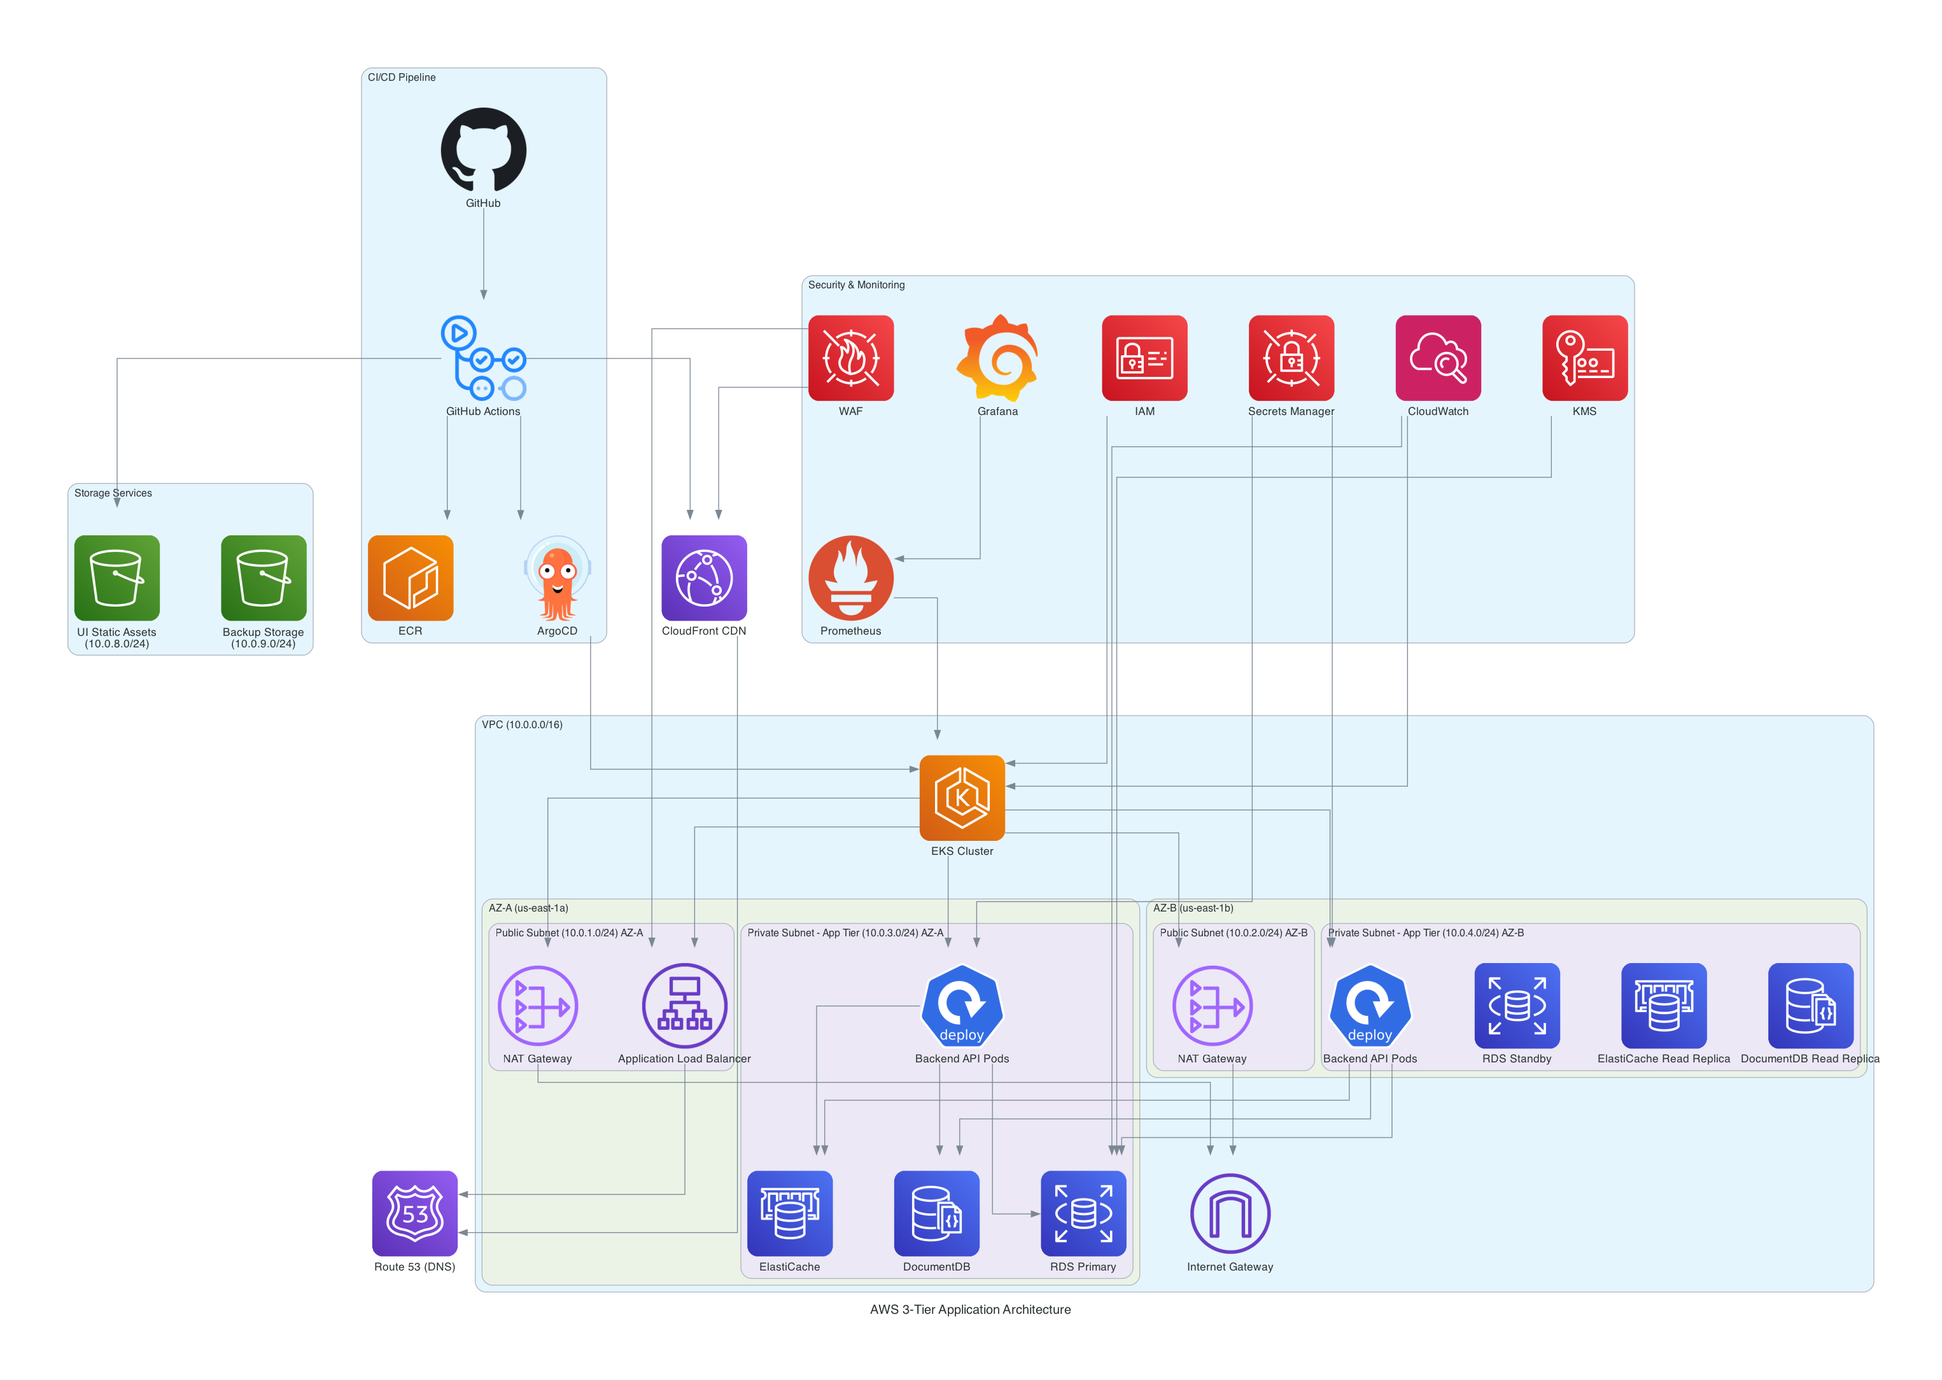
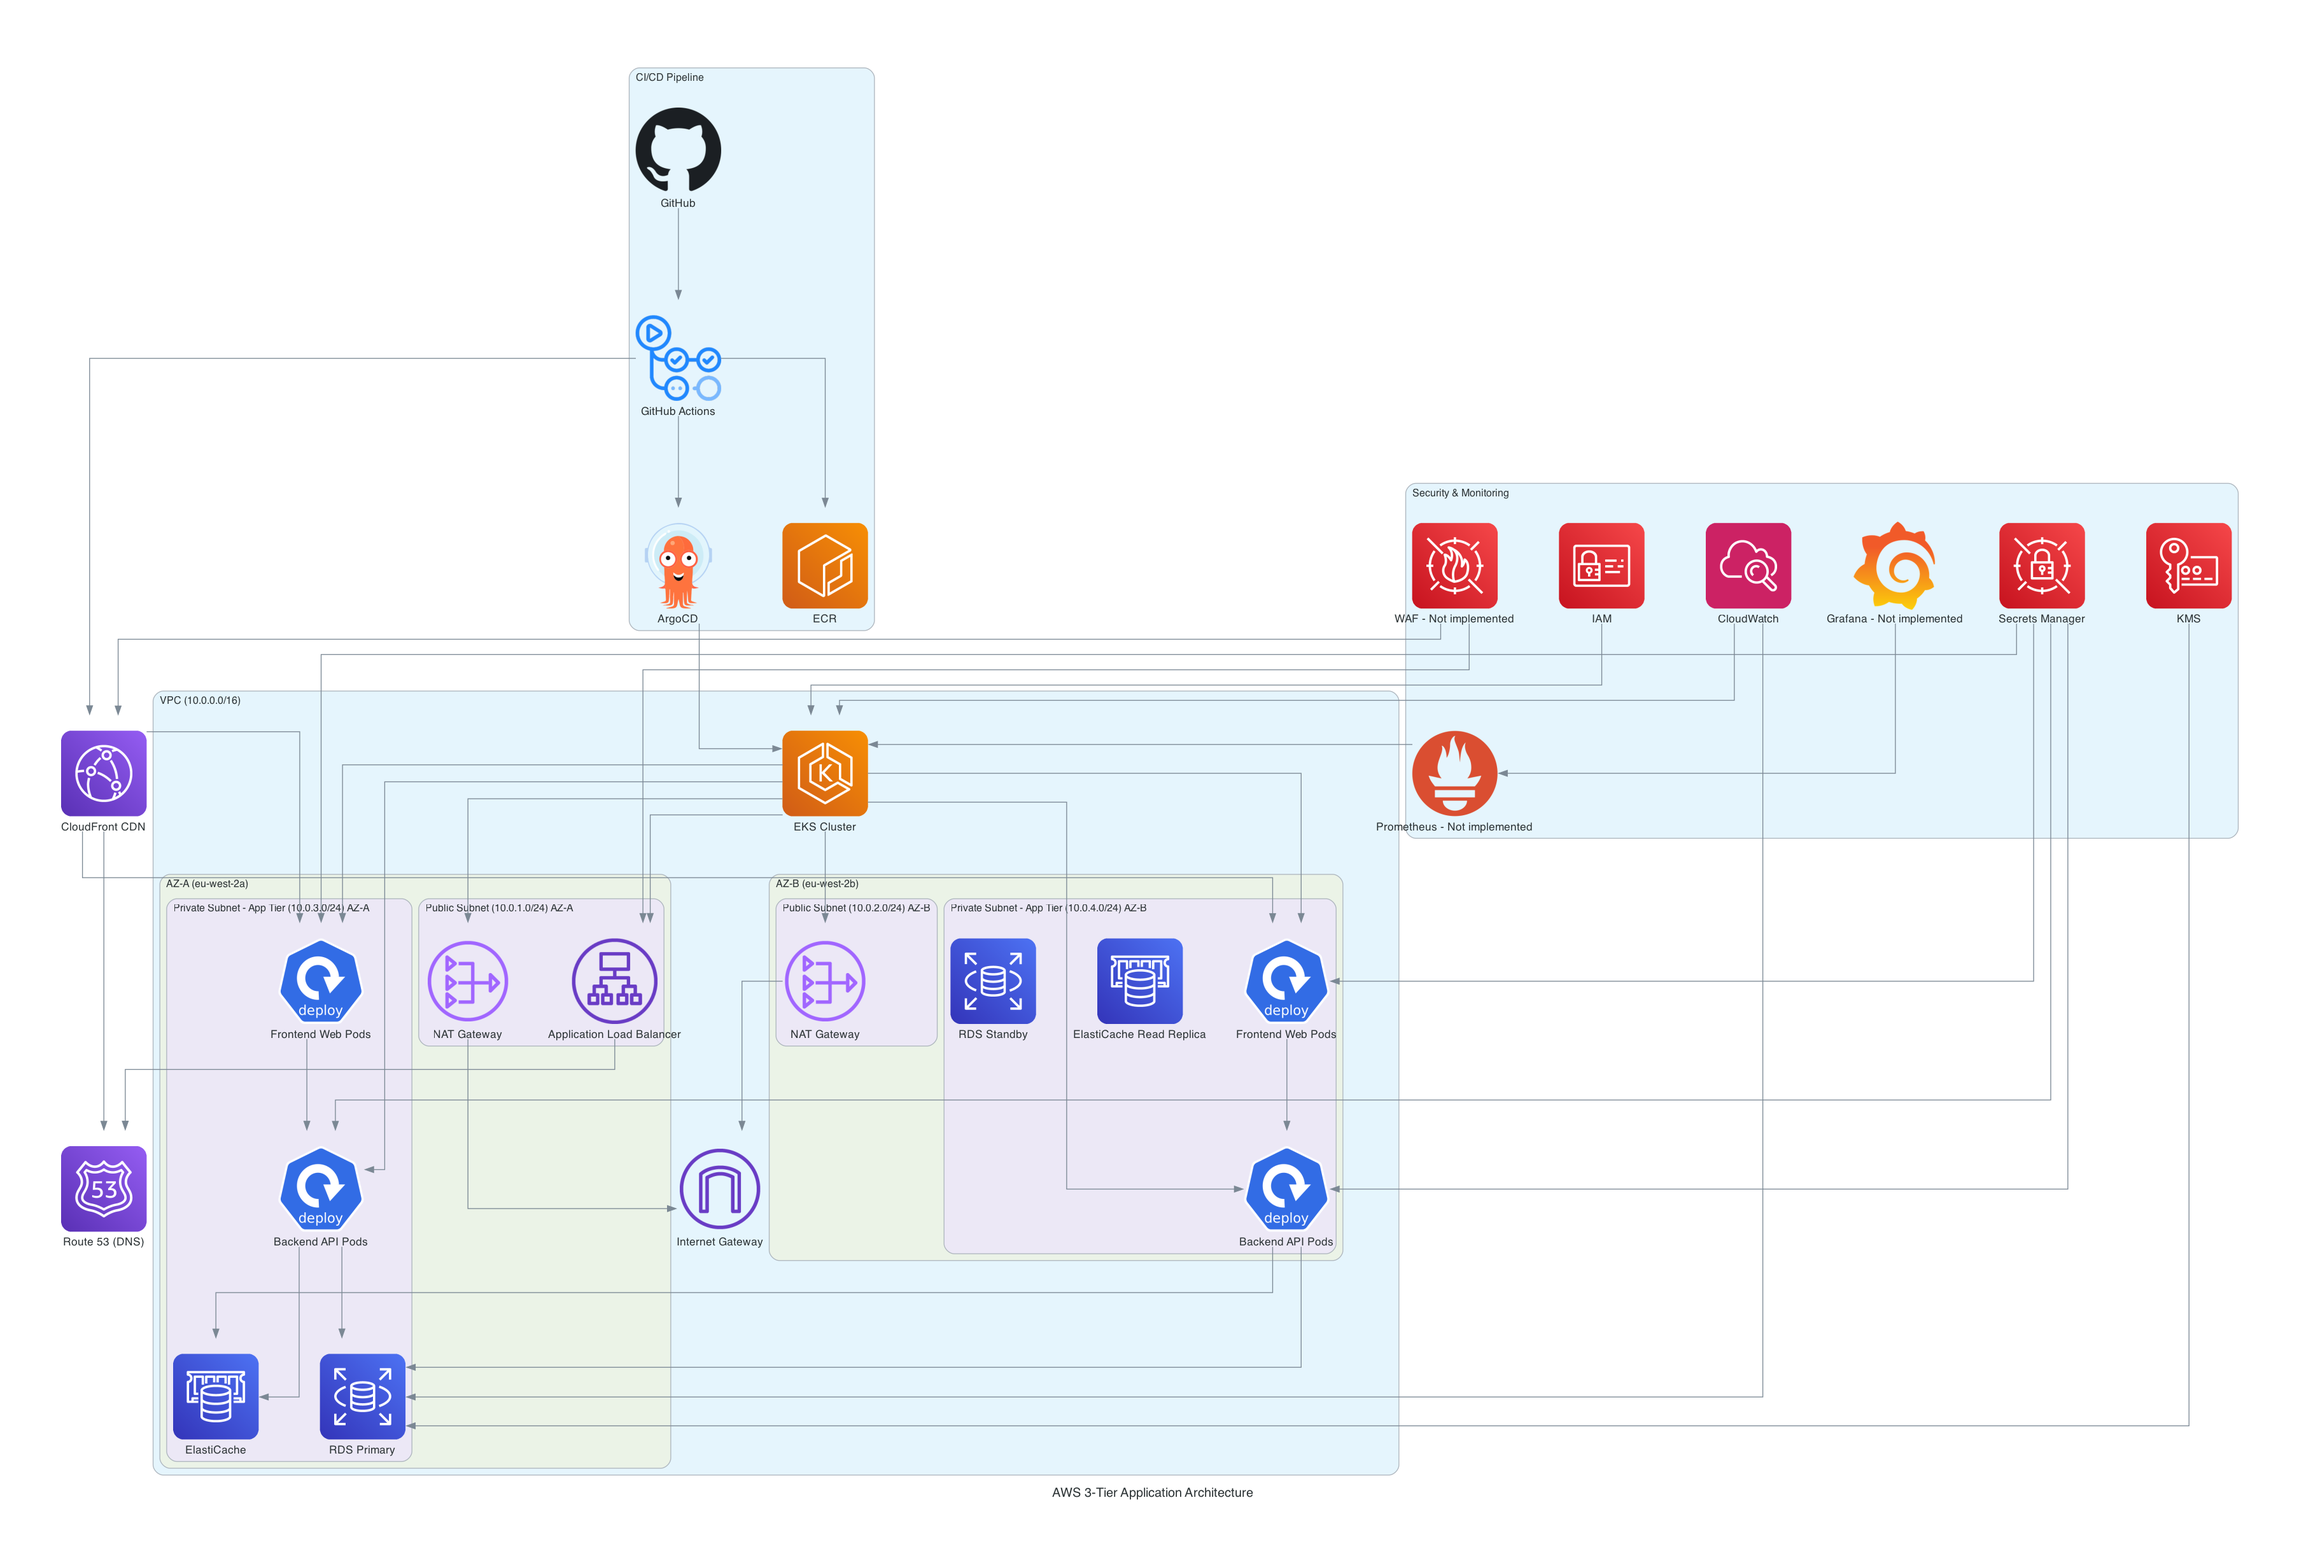
Add Fluent Bit installation script and AWS architecture diagram

diff --git a/src/scripts/arch.py b/src/scripts/arch.py
@@ -1,0 +1,108 @@
+from diagrams import Diagram, Cluster, Edge
+from diagrams.aws.compute import EKS, EC2, ECR
+from diagrams.aws.database import RDS, ElastiCache, DocumentDB
+from diagrams.aws.network import VPC, ALB, CloudFront, Route53, VPCRouter, InternetGateway, NATGateway
+from diagrams.aws.security import WAF, IAM, KMS, SecretsManager
+from diagrams.aws.storage import S3
+from diagrams.aws.devtools import Codebuild, Codecommit, Codepipeline
+from diagrams.aws.management import Cloudwatch
+from diagrams.k8s.compute import Deployment, Pod
+from diagrams.onprem.monitoring import Grafana, Prometheus
+from diagrams.onprem.gitops import ArgoCD
+from diagrams.onprem.ci import GithubActions
+from diagrams.onprem.vcs import Github
+
+with Diagram(
+    "AWS 3-Tier Application Architecture", 
+    show=False, 
+    direction="TB",
+    graph_attr={
+        "pad": "1.0",  # Padding around the diagram
+        "nodesep": "1.0",  # Separation between nodes
+        "ranksep": "1.5"   # Separation between ranks (horizontal/vertical clusters)
+    }):
+    # CDN Layer
+    cloudfront = CloudFront("CloudFront CDN")
+    
+    dns = Route53("Route 53 (DNS)")
+
+    # CI/CD Pipeline Cluster
+    with Cluster("CI/CD Pipeline"):
+        github = Github("GitHub")
+        github_actions = GithubActions("GitHub Actions")
+        ecr = ECR("ECR")
+        argocd = ArgoCD("ArgoCD")
+
+    # Security & Monitoring Cluster
+    with Cluster("Security & Monitoring"):
+        secrets = SecretsManager("Secrets Manager")
+        iam = IAM("IAM")
+        kms = KMS("KMS")
+        cloudwatch = Cloudwatch("CloudWatch")
+        prometheus = Prometheus("Prometheus - Not implemented")
+        grafana = Grafana("Grafana - Not implemented")
+        waf = WAF("WAF - Not implemented")
+    
+    # Main VPC Cluster
+    with Cluster("VPC (10.0.0.0/16)"):
+        igw = InternetGateway("Internet Gateway")
+        eks = EKS("EKS Cluster")
+
+        with Cluster("AZ-A (eu-west-2a)"):
+            # Public Subnet in AZ-A
+            with Cluster("Public Subnet (10.0.1.0/24) AZ-A"):
+                alb = ALB("Application Load Balancer")
+                nat_a = NATGateway("NAT Gateway")
+
+            # Private Subnet - Application Tier in AZ-A
+            with Cluster("Private Subnet - App Tier (10.0.3.0/24) AZ-A"):
+                api_pods_a = Deployment("Backend API Pods")
+                rds = RDS("RDS Primary")
+                cache = ElastiCache("ElastiCache")
+                frontend_pods_a = Deployment("Frontend Web Pods")
+        
+        with Cluster("AZ-B (eu-west-2b)"):
+            # Public Subnet in AZ-B
+            with Cluster("Public Subnet (10.0.2.0/24) AZ-B"):
+                nat_b = NATGateway("NAT Gateway")
+
+            # Private Subnet - Application Tier in AZ-B
+            with Cluster("Private Subnet - App Tier (10.0.4.0/24) AZ-B"):
+                api_pods_b = Deployment("Backend API Pods")
+                rds_sb = RDS("RDS Standby")
+                cache_rr = ElastiCache("ElastiCache Read Replica")
+                frontend_pods_b = Deployment("Frontend Web Pods")
+                
+    # Edge Services Flow
+    cloudfront >> dns
+    cloudfront >> frontend_pods_a
+    cloudfront >> frontend_pods_b
+    alb >> dns
+
+    waf >> alb
+    waf >> cloudfront
+
+    # Application Flow
+    frontend_pods_a >> api_pods_a
+    frontend_pods_b >> api_pods_b
+    api_pods_a >> [rds, cache]
+    api_pods_b >> [rds, cache]
+
+    # Kubernetes Cluster Flow
+    eks >> [api_pods_a, api_pods_b, frontend_pods_a, frontend_pods_b, alb]
+    
+    # CI/CD Pipeline Flow
+    github >> github_actions >> [ecr, argocd]
+    argocd >> eks
+    github_actions >> cloudfront
+
+    # Network Connections
+    eks >> [nat_a, nat_b] >> igw
+
+    # Monitoring and Security Connections
+    prometheus >> eks
+    grafana >> prometheus
+    cloudwatch >> [eks, rds]
+    secrets >> [api_pods_a, api_pods_b, frontend_pods_a, frontend_pods_b]
+    iam >> eks
+    kms >> rds
